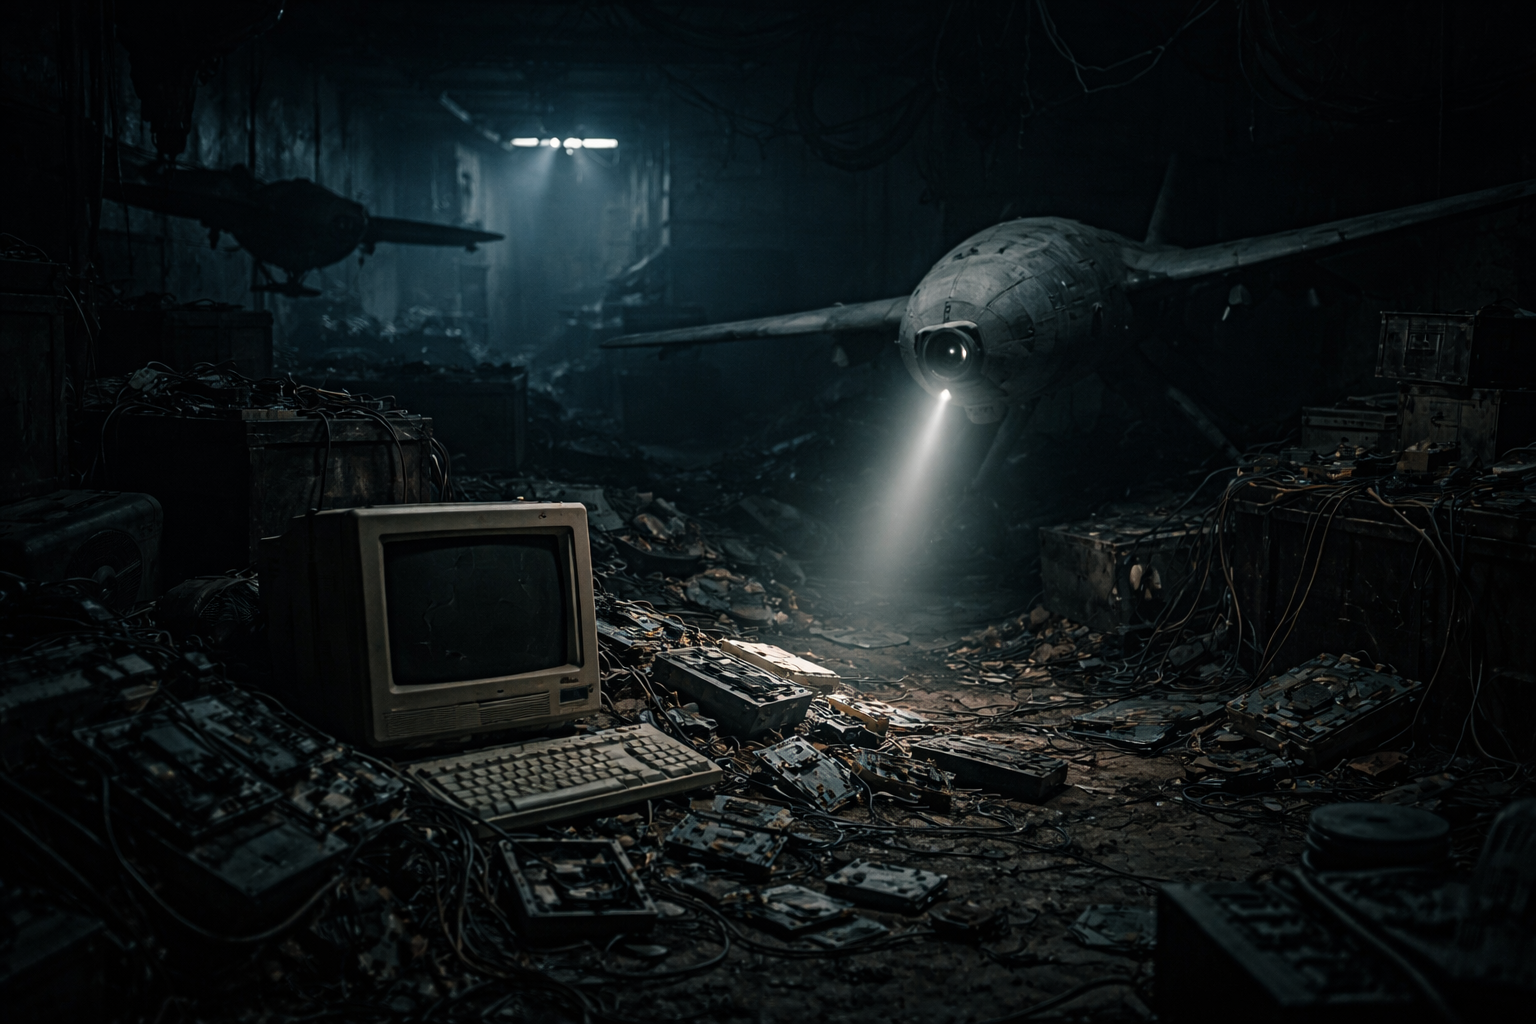
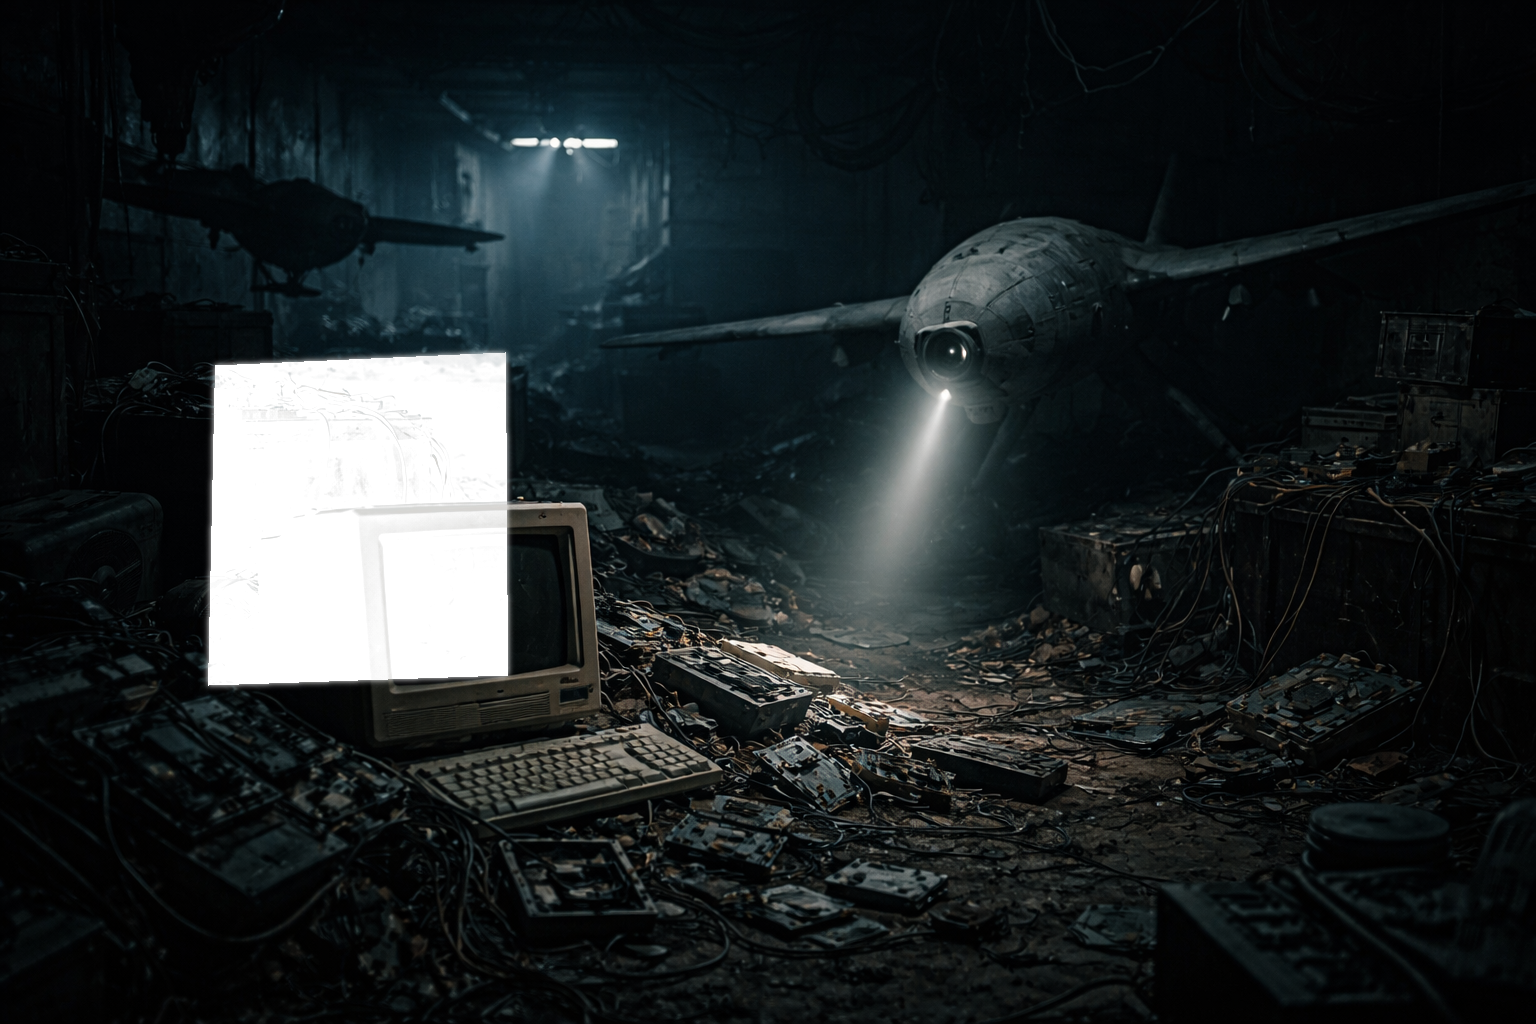
Map terminal onto monitor in background photo
- Cut alpha hole in bg.png matching monitor screen area, preserving
  bright reflections as semi-transparent overlay
- Layer terminal behind image so bezel naturally clips content
- JS layoutScene() computes cover-scaling and positions CRT housing
  to track the alpha hole across any viewport aspect ratio
- Font size scales dynamically based on screen area width
- Remove CSS housing chrome (the photo provides the physical frame)

Changed region(s): [[0.125, 0.3438, 0.3438, 0.6875]]

diff --git a/assets/css/crt.css b/assets/css/crt.css
@@ -46,7 +46,7 @@
 
 @media (orientation: portrait) {
   .rotate-msg { display: flex; }
-  .crt-housing { display: none; }
+  .scene { display: none; }
 }
 
 html, body {
@@ -55,59 +55,63 @@ html, body {
 }
 
 body {
-  background: #000 url('../bg.png') center center / cover no-repeat fixed;
+  background: #000;
   color: var(--phosphor);
   font-family: 'VT323', 'Courier New', monospace;
   font-size: 20px;
   line-height: 1.5;
   user-select: none;
   -webkit-user-select: none;
-  display: flex;
-  align-items: center;
-  justify-content: center;
   overflow: hidden;
 }
 
-/* Dark overlay on background image */
-body::before {
-  content: '';
+/* === SCENE (background image as container) === */
+
+.scene {
   position: fixed;
   top: 0; left: 0;
   width: 100%; height: 100%;
-  background: rgba(0, 0, 0, 0.75);
-  z-index: 0;
+  overflow: hidden;
+  background: #000;
 }
 
-body > * { position: relative; z-index: 1; }
-
-/* JS fitToScreen() handles scaling via transform */
-.crt-housing {
-  transform-origin: center center;
+/* JS positions .scene-frame to cover viewport while maintaining aspect ratio,
+   so percentage-based CRT placement stays accurate */
+.scene-frame {
+  position: absolute;
 }
 
-/* === CRT MONITOR === */
+.scene-img {
+  width: 100%; height: 100%;
+  display: block;
+}
+
+/* Image sits above the CRT so its alpha hole reveals the terminal behind */
+.scene-frame { z-index: 2; pointer-events: none; }
+.crt-housing { z-index: 1; }
+
+/* === CRT SCREEN mapped onto monitor in photo === */
+/* JS layoutScene() sets position/size */
 
 .crt-housing {
-  position: relative;
-  padding: 24px;
-  border-radius: 18px;
-  background: radial-gradient(ellipse at 30% 20%, #1a1a1a, #080808);
-  box-shadow:
-    0 0 0 2px #222,
-    0 0 0 4px #111,
-    0 8px 32px rgba(0, 0, 0, 0.8),
-    inset 0 1px 0 rgba(255, 255, 255, 0.03);
+  position: absolute;
+  overflow: hidden;
+}
+
+/* Boot screen and main screen wrappers must fill the housing */
+#boot-screen, #main-screen {
+  width: 100%;
+  height: 100%;
 }
 
 .crt {
   position: relative;
-  /* 60ch content + 2x 1.5rem padding = 60ch + 3rem */
-  width: calc(60ch + 3rem);
-  aspect-ratio: 4 / 3;
+  width: 100%;
+  height: 100%;
   display: flex;
   flex-direction: column;
   background: var(--bg);
-  border-radius: 8px;
+  border-radius: 6px;
   overflow: hidden;
 }
 
@@ -139,27 +143,20 @@ body > * { position: relative; z-index: 1; }
   border-radius: 8px;
 }
 
-.crt-glass {
-  position: absolute;
-  top: 0; left: 0;
-  width: 100%; height: 100%;
-  background: linear-gradient(135deg, rgba(255,255,255,0.03) 0%, transparent 40%, transparent 60%, rgba(255,255,255,0.01) 100%);
-  pointer-events: none;
-  z-index: 102;
-  border-radius: 8px;
-}
+/* Glass reflection handled by the alpha-masked background image */
+.crt-glass { display: none; }
 
 .crt * { text-shadow: 0 0 5px var(--phosphor-glow); }
 
+/* Green phosphor glow cast onto the scene around the monitor */
 .crt-housing::after {
   content: '';
   position: absolute;
-  top: 10%; left: 10%;
-  width: 80%; height: 80%;
-  background: radial-gradient(ellipse at center, rgba(51,255,51,0.04) 0%, transparent 70%);
+  top: -50%; left: -50%;
+  width: 200%; height: 200%;
+  background: radial-gradient(ellipse at center, rgba(51,255,51,0.08) 0%, transparent 50%);
   pointer-events: none;
-  z-index: -1;
-  border-radius: 8px;
+  z-index: 3;
 }
 
 @keyframes flicker {
@@ -186,15 +183,16 @@ body > * { position: relative; z-index: 1; }
 
 .screen-content {
   height: 100%;
-  padding: 1.2rem 1.5rem;
+  padding: 4% 5%;
   overflow: hidden;
 }
 
 /* === ALL TEXT IS PRE === */
 
+/* JS sets --term-font-size based on actual screen width */
 .terminal-pre {
   font-family: 'VT323', 'Courier New', monospace;
-  font-size: 20px;
+  font-size: var(--term-font-size, 14px);
   line-height: 1.5;
   color: var(--phosphor);
   margin: 0;
@@ -219,12 +217,12 @@ body > * { position: relative; z-index: 1; }
   flex-shrink: 0;
   border-top: 1px solid var(--phosphor-dim);
   color: var(--amber);
-  padding: 0.3rem 1.5rem;
+  padding: 1% 5%;
   display: flex;
   justify-content: space-between;
   background: rgba(0, 0, 0, 0.5);
   font-family: 'VT323', 'Courier New', monospace;
-  font-size: 20px;
+  font-size: var(--term-font-size, 14px);
   line-height: 1.5;
 }
 

diff --git a/_layouts/default.html b/_layouts/default.html
@@ -17,18 +17,23 @@
     <pre>ROTATE TERMINAL TO
 LANDSCAPE ORIENTATION</pre>
   </div>
-  <div class="crt-housing">
-    <div class="crt" id="boot-screen" style="display:none;">
-      <div class="crt-glass"></div>
-      <div class="screen">
-        <div class="screen-content">
-          <pre class="terminal-pre" id="boot-log"></pre>
+  <div class="scene">
+    <div class="scene-frame">
+      <img class="scene-img" src="{{ '/assets/bg.png' | relative_url }}" alt="">
+    </div>
+    <div class="crt-housing">
+      <div class="crt" id="boot-screen" style="display:none;">
+        <div class="crt-glass"></div>
+        <div class="screen">
+          <div class="screen-content">
+            <pre class="terminal-pre" id="boot-log"></pre>
+          </div>
         </div>
       </div>
-    </div>
 
-    <div id="main-screen" style="display:none;">
-      {{ content }}
+      <div id="main-screen" style="display:none;">
+        {{ content }}
+      </div>
     </div>
   </div>
 
@@ -38,7 +43,45 @@ LANDSCAPE ORIENTATION</pre>
   var bootScreen = document.getElementById('boot-screen');
   var mainScreen = document.getElementById('main-screen');
 
+  // Scene layout: map CRT onto monitor in the background photo
+  var IMG_W = 1536, IMG_H = 1024; // bg.png native dimensions
+  var frame = document.querySelector('.scene-frame');
+  var housing = document.querySelector('.crt-housing');
+
+  // Monitor screen bounds — inset slightly from alpha polygon in bg.png
+  // so the bezel always overlaps the terminal edges
+  var SCREEN_L = 0.140;
+  var SCREEN_T = 0.355;
+  var SCREEN_W = 0.188;
+  var SCREEN_H = 0.315;
+
+  function layoutScene() {
+    var vw = window.innerWidth, vh = window.innerHeight;
+    var sx = vw / IMG_W, sy = vh / IMG_H;
+    var s = Math.max(sx, sy); // cover
+    var fw = IMG_W * s, fh = IMG_H * s;
+    // Center the overflow (same as object-fit:cover centering)
+    var fl = (vw - fw) / 2;
+    var ft = (vh - fh) / 2;
+    frame.style.width = fw + 'px';
+    frame.style.height = fh + 'px';
+    frame.style.left = fl + 'px';
+    frame.style.top = ft + 'px';
+
+    // Position CRT housing over the monitor screen
+    housing.style.left = (fl + fw * SCREEN_L) + 'px';
+    housing.style.top = (ft + fh * SCREEN_T) + 'px';
+    housing.style.width = (fw * SCREEN_W) + 'px';
+    housing.style.height = (fh * SCREEN_H) + 'px';
+
+    // Scale font so ~58 chars fit the screen width
+    var screenW = fw * SCREEN_W * 0.9;
+    var fs = Math.max(8, Math.floor(screenW / 36));
+    document.documentElement.style.setProperty('--term-font-size', fs + 'px');
+  }
+
   function start() {
+    layoutScene();
     if (booted) {
       mainScreen.style.display = '';
       return;
@@ -116,18 +159,8 @@ LANDSCAPE ORIENTATION</pre>
   setTimeout(printLine, 500);
   } // end runBoot
 
-  // Scale terminal to fit viewport
-  function fitToScreen() {
-    var el = document.querySelector('.crt-housing');
-    el.style.transform = '';
-    var rect = el.getBoundingClientRect();
-    var sx = window.innerWidth / rect.width;
-    var sy = window.innerHeight / rect.height;
-    var s = Math.min(1, sx, sy) * 0.95;
-    el.style.transform = 'scale(' + s + ')';
-  }
-  fitToScreen();
-  window.addEventListener('resize', fitToScreen);
+  layoutScene();
+  window.addEventListener('resize', layoutScene);
 })();
 </script>
 </body>
